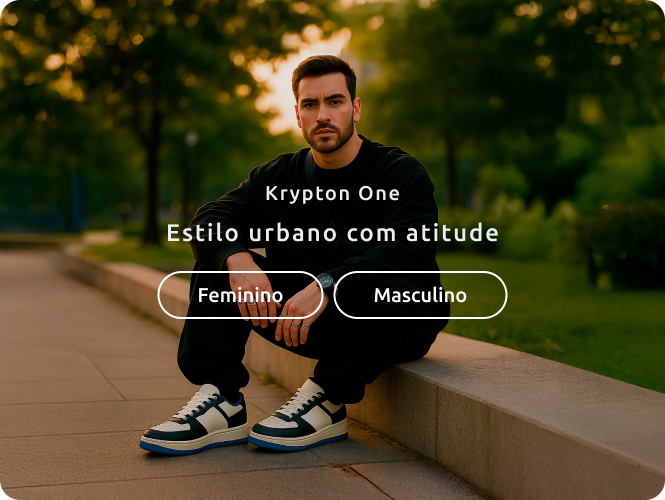
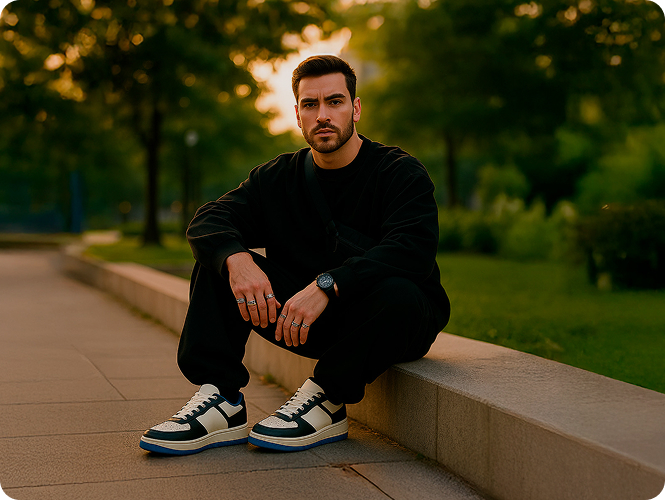
feat: adiciona o rodapé

diff --git a/index.html b/index.html
@@ -16,6 +16,7 @@
 	<link rel="stylesheet" href="./css/components/hero.css">
 	<link rel="stylesheet" href="./css/components/product-category.css">
 	<link rel="stylesheet" href="./css/components/product-grid.css">
+	<link rel="stylesheet" href="./css/components/footer.css">
 
 </head>
 
@@ -123,8 +124,86 @@
 		</section>
 	</main>
 
-	<footer class="site-footer">
-		<!-- Informações de contato e links -->
+	<footer class="site-footer" id="footer">
+		<div class="footer-content">
+			<div class="footer-right">
+				<form class="newsletter-form">
+					<label for="newsletter-email">Inscreva-se em nosso e-mail</label>
+					<input type="email" id="newsletter-email" placeholder="email@email.com">
+				</form>
+				<div class="footer-social">
+					<span>Redes sociais</span>
+					<ul>
+						<li>
+							<a href="#" aria-label="Instagram"><img src="./images/icons/instagram.png"
+									alt="Instagram"></a>
+						</li>
+						<li>
+							<a href="#" aria-label="WhatsApp"><img src="./images/icons/whatsapp.svg" alt="WhatsApp"></a>
+						</li>
+						<li>
+							<a href="#" aria-label="TikTok"><img src="./images/icons/tiktok.svg" alt="TikTok"></a>
+						</li>
+						<li>
+							<a href="#" aria-label="Facebook"><img src="./images/icons/facebook.svg" alt="Facebook"></a>
+						</li>
+					</ul>
+				</div>
+			</div>
+			
+			<nav class="footer-nav">
+				<ul>
+					<li>
+						<strong>Masculino</strong>
+						<ul>
+							<li><a href="#">Casual</a></li>
+							<li><a href="#">Esporte</a></li>
+							<li><a href="#">Moderno</a></li>
+							<li><a href="#">Futurista</a></li>
+						</ul>
+					</li>
+
+
+
+					<li>
+						<strong>Feminino</strong>
+						<ul>
+							<li><a href="#">Casual</a></li>
+							<li><a href="#">Esporte</a></li>
+							<li><a href="#">Moderno</a></li>
+							<li><a href="#">Futurista</a></li>
+						</ul>
+					</li>
+
+
+					<li>
+						<strong>Outlet</strong>
+						<ul>
+							<li><a href="#">Masculino</a></li>
+							<li><a href="#">Feminino</a></li>
+						</ul>
+					</li>
+
+					<li>
+						<strong class="footer-col-title">Nossas lojas</strong>
+						<ul>
+							<li><a href="#">Loja física</a></li>
+							<li><a href="#">Loja online</a></li>
+						</ul>
+					</li>
+
+					<li>
+						<strong class="footer-col-title">Sobre</strong>
+						<ul>
+							<li><a href="#">Quem somos</a></li>
+							<li><a href="#">Missão</a></li>
+						</ul>
+					</li>
+				</ul>
+			</nav>
+		</div>
+		<hr />
+		<div class="footer-copy">Copyright. All Rights Reserved</div>
 	</footer>
 </body>
 

diff --git a/css/components/footer.css b/css/components/footer.css
@@ -1,0 +1,73 @@
+.site-footer {
+  background-color: #333333;
+  color: #ffffff;
+}
+
+.footer-content {
+  max-width: 1360rem; /* 1360px */
+  margin: 0 auto;
+  padding: 2.5rem; /* 40px */
+  display: flex;
+  justify-content: space-between;
+}
+
+.footer-right {
+  display: flex;
+  flex-direction: column;
+  gap: 3.125rem;
+}
+
+.footer-nav ul {
+  display: flex;
+  padding: 0;
+  gap: 1.25rem; /* 20px */
+}
+
+.footer-nav ul ul {
+  display: flex;
+  flex-direction: column;
+  gap: 1rem; /* 16px */
+  padding: 0;
+}
+
+.footer-nav strong {
+  color: #ededed;
+  font-size: 1.25rem;
+  margin-bottom: 1rem; /* 16px */
+  display: block;
+  font-weight: 400;
+}
+
+.footer-nav li a {
+  color: #ffffff;
+}
+
+.footer-nav li a:hover {
+  text-decoration: underline;
+}
+
+.newsletter-form {
+  display: flex;
+  flex-direction: column;
+}
+
+.newsletter-form input {
+  border-radius: 30px; /* 30px */
+  color: #aaaaaa;
+  padding: 0.75rem 1.25rem; /* 12px 20px */
+  width: 21.5rem; /* 344px */
+}
+
+.footer-social span {
+  margin-bottom: 1rem; /* 16px */
+  display: block;
+}
+
+.footer-social ul {
+  display: flex;
+  gap: 1.25rem; /* 20px */
+}
+
+.footer-social li a:hover img {
+  opacity: 0.7;
+}

diff --git a/css/components/product-grid.css b/css/components/product-grid.css
@@ -46,26 +46,30 @@
         "sneaker-white sneaker-white model sneaker-silver";
     gap: 30px;
 }
-.top1-content{
+
+.top1-content {
     position: absolute;
     left: 50%;
     top: 50%;
     transform: translate(-50%, -50%);
     text-align: center;
 }
-.card-title{
+
+.card-title {
     color: #ededed;
     font-size: 1.25rem;
     font-weight: 400;
     margin-bottom: 10px;
 }
-.card-subtitle{
+
+.card-subtitle {
     color: #ededed;
     font-size: 1.5rem;
     font-weight: 400;
     margin-bottom: 20px;
 }
-.cta-group{
+
+.cta-group {
     display: flex;
     gap: 10px;
 }

diff --git a/css/base.css b/css/base.css
@@ -4,7 +4,7 @@ body {
     color: #333333;
 }
 main{
-    padding: 2.5rem 0 0;
+    padding: 2.5rem 0 2.5rem;
     max-width: 1360px;
     margin: 0 auto;
 }
@@ -34,4 +34,9 @@ main{
     background-color: #6329a2;
     color: #ffffff;
     border-color: #6329a2;
+}
+.footer-copy{
+  font-size: 1.25rem;
+  text-align: center;
+  padding: 20px 0;
 }

diff --git a/css/reset.css b/css/reset.css
@@ -51,6 +51,8 @@ a {
 ul,
 ol {
     list-style: none;
+    padding: 0;
+    margin: 0;
 }
 
 /* Make images easier to work with */
